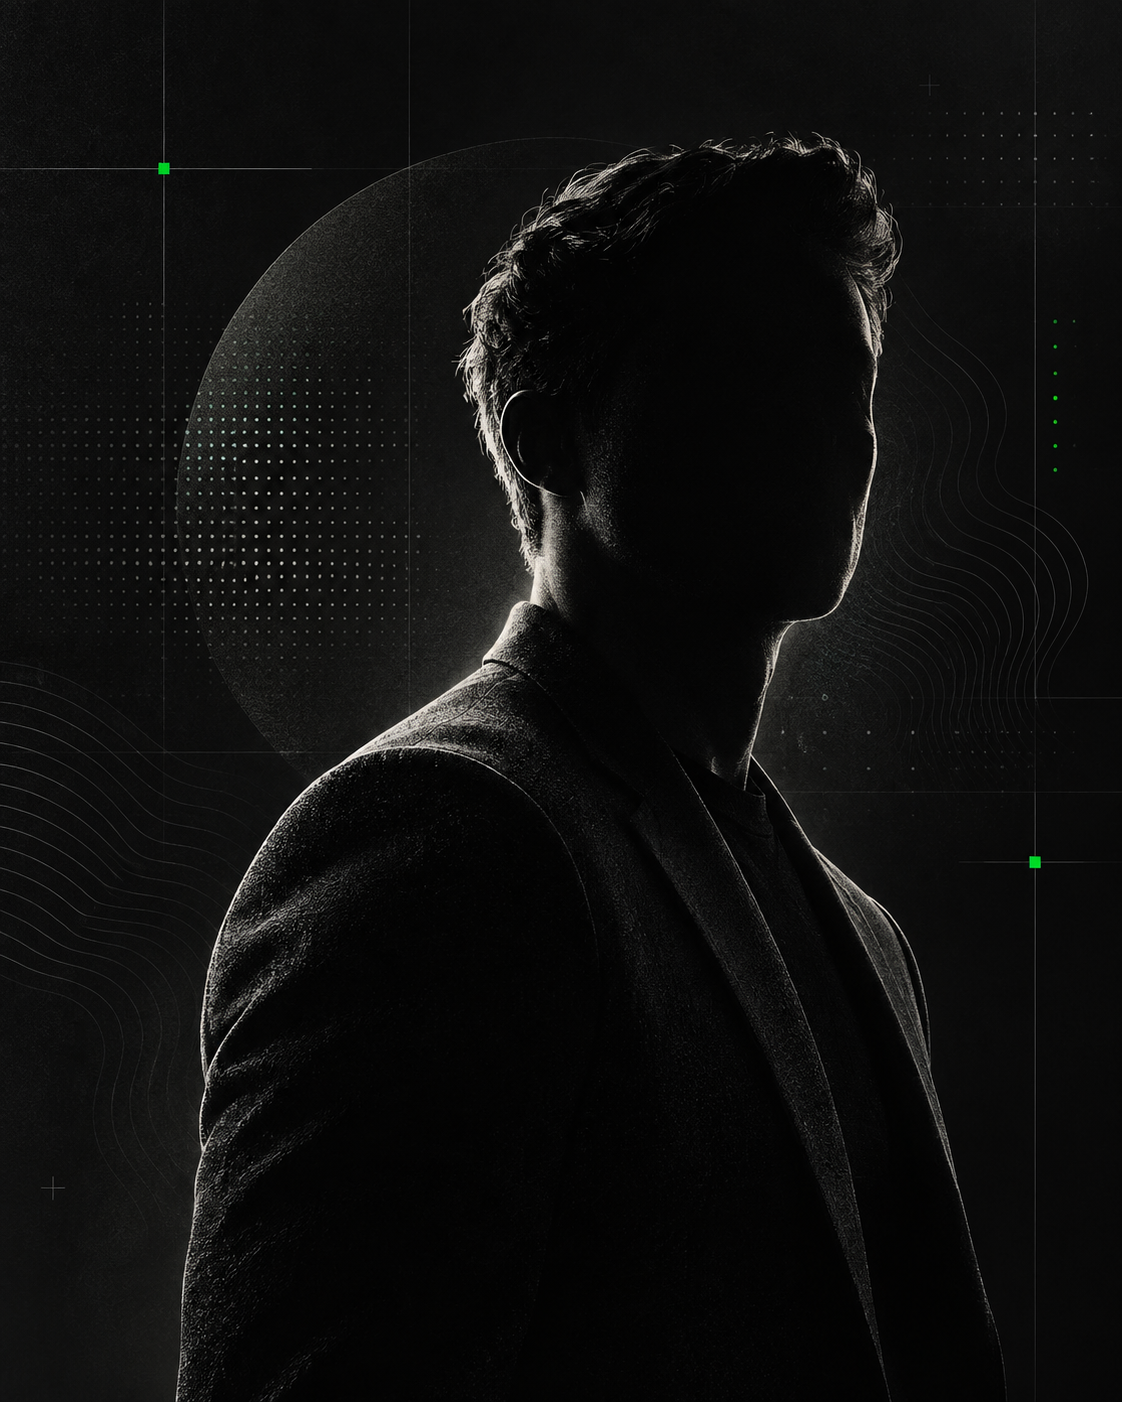
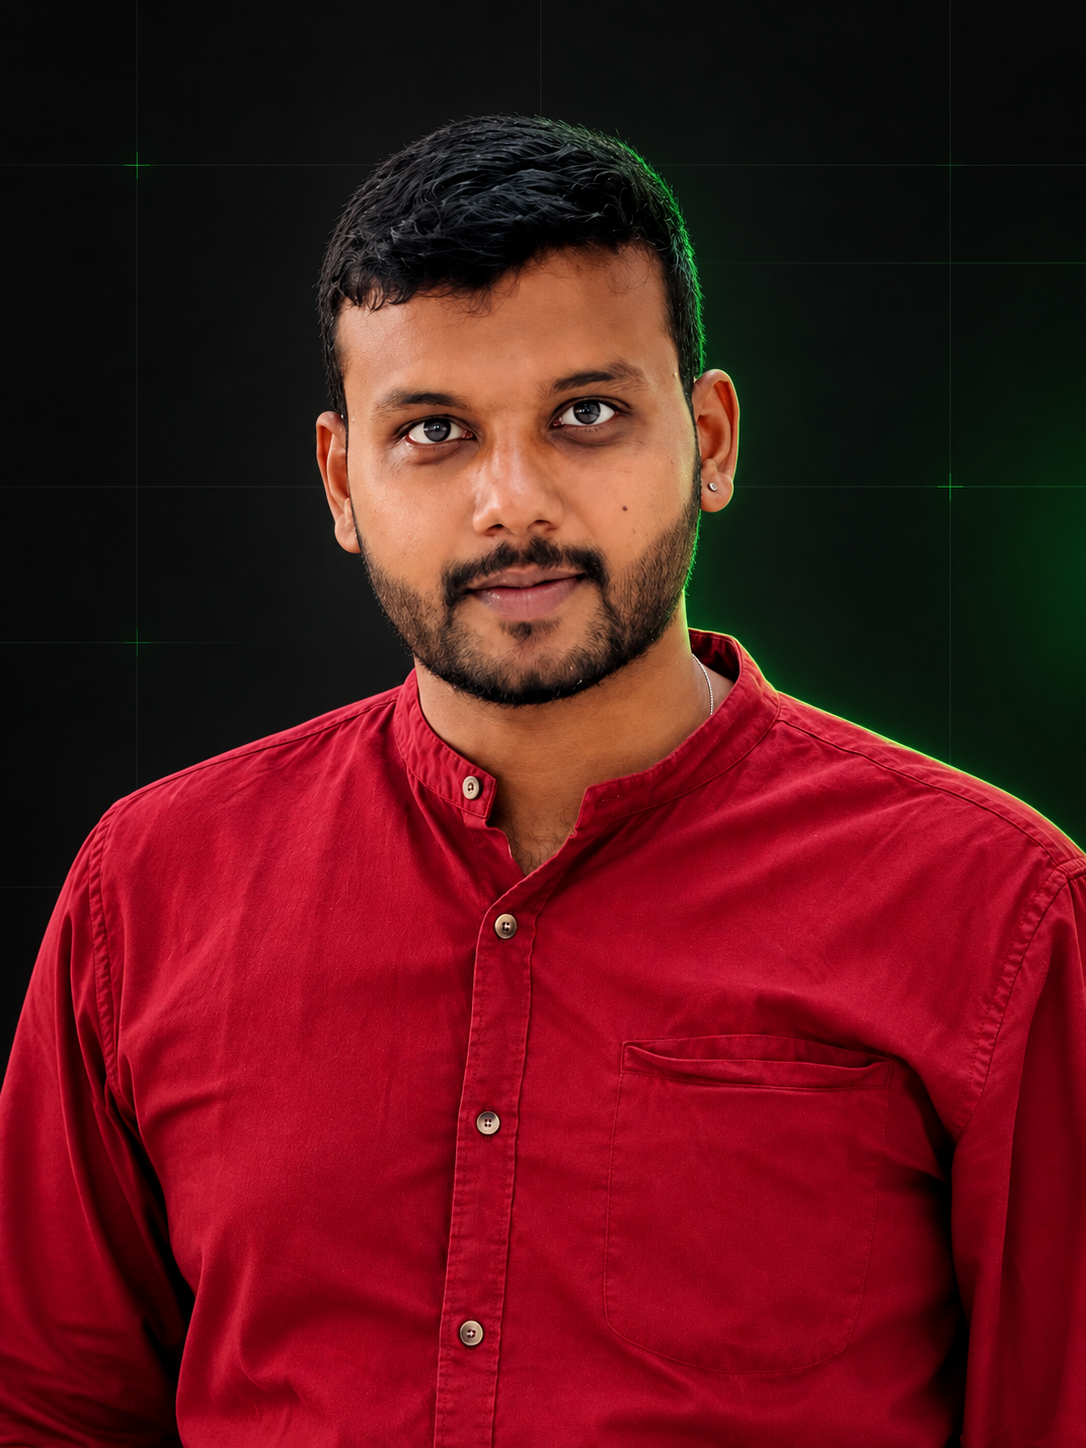
Add personal portrait and clarify India UK experience

diff --git a/src/app/globals.css b/src/app/globals.css
@@ -203,8 +203,8 @@ button, a { -webkit-tap-highlight-color: transparent; }
 .hero .section-eyebrow { position: relative; z-index: 3; margin-bottom: 1rem; }
 .hero-instrumentation { position: relative; z-index: 3; display: flex; flex-wrap: wrap; gap: 0.65rem clamp(1rem, 2.5vw, 2.5rem); margin-bottom: clamp(2rem, 4vw, 4rem); }
 .hero__composition { position: relative; display: grid; align-items: center; }
-.hero-interactive-title { position: relative; z-index: 2; grid-area: 1 / 1; width: min(70%, 72rem); margin: 0; color: var(--color-text-display); font-family: var(--font-display); letter-spacing: var(--tracking-display); line-height: 0.82; text-transform: uppercase; }
-.hero-interactive-title__pressure { display: block; height: clamp(4.2rem, 9.6vw, 11.5rem); }
+.hero-interactive-title { position: relative; z-index: 2; grid-area: 1 / 1; width: min(42%, 50rem); margin: 0; color: var(--color-text-display); font-family: var(--font-display); letter-spacing: var(--tracking-display); line-height: 0.82; text-transform: uppercase; }
+.hero-interactive-title__pressure { display: block; height: clamp(4.2rem, 6vw, 7.25rem); }
 .hero-interactive-title__pressure .text-pressure-title { letter-spacing: -0.065em; }
 .text-pressure-flex { display: flex; justify-content: space-between; }
 .text-pressure-stroke span { position: relative; }
@@ -381,10 +381,12 @@ button, a { -webkit-tap-highlight-color: transparent; }
 .resume-actions { display: flex; flex-wrap: wrap; gap: 0.75rem; margin-top: 2rem; }
 
 .clients-section h2 { margin-block: clamp(4rem, 8vw, 8rem); }
+.clients-section__context { max-width: 46rem; margin: calc(-1 * clamp(2rem, 4vw, 4rem)) 0 clamp(3rem, 6vw, 6rem) auto; color: var(--color-text-secondary); line-height: 1.7; }
 .clients-grid { display: grid; grid-template-columns: repeat(3, minmax(0, 1fr)); border-top: 1px solid var(--color-border-subtle); border-left: 1px solid var(--color-border-subtle); }
 .clients-grid article { min-height: 15rem; padding: clamp(1.5rem, 3vw, 3rem); border-right: 1px solid var(--color-border-subtle); border-bottom: 1px solid var(--color-border-subtle); }
 .clients-grid h3 { margin: 4rem 0 1rem; color: var(--color-text-primary); font: 600 clamp(1.3rem, 2.5vw, 2.8rem)/1 var(--font-display); letter-spacing: -0.04em; text-transform: uppercase; }
 .clients-grid small { color: var(--color-accent); }
+.clients-grid b { display: block; margin-top: 1.5rem; color: var(--color-text-muted); font: 500 0.5rem/1.5 var(--font-meta); letter-spacing: 0.09em; text-transform: uppercase; }
 .highlights-strip { border-top: 1px solid var(--color-border-subtle); background: var(--color-surface-1); }
 .highlights-strip__grid { display: grid; grid-template-columns: repeat(4, minmax(0, 1fr)); }
 .highlights-strip__grid > div { min-height: 14rem; padding: 2rem; border-left: 1px solid var(--color-border-subtle); }

diff --git a/src/data/experience.ts b/src/data/experience.ts
@@ -1,7 +1,7 @@
 import type { TimelineEntry } from "@/types/portfolio";
 
 export const experience: TimelineEntry[] = [
-  { period: "Jan 2023—Present", category: "Entrepreneur", title: "Digital Products & Business Platforms", organization: "Independent ventures", description: "Building CRM systems and technology-driven platforms across education, finance, retail, billing, and commerce—with a focus on practical business use cases." },
-  { period: "Feb 2018—Feb 2022", category: "Technology", title: "Network Engineer / Cyber Security Analyst", organization: "United Kingdom", description: "Supported network infrastructure, security operations, technical troubleshooting, system reliability, and client environments across multiple organizations." },
+  { period: "Jan 2023—Present", category: "Entrepreneur", title: "Digital Products & Business Platforms", organization: "India", description: "Building India-based CRM systems and technology-driven platforms across education, finance, retail, billing, and commerce—with a focus on practical business use cases." },
+  { period: "Feb 2018—Feb 2022", category: "Technology", title: "Network Engineer & Security Analyst", organization: "United Kingdom", description: "Worked as a Network Engineer and Security Analyst across the listed UK client environments, supporting network infrastructure, security operations, technical troubleshooting, monitoring, and system reliability." },
   { period: "2014—2018", category: "Business Operations", title: "Transport & Heavy-Vehicle Operations", organization: "Family transport business", description: "Hands-on operational coordination across logistics, lorries, JCBs, maintenance awareness, and practical day-to-day problem solving." },
 ];

diff --git a/src/app/page.tsx b/src/app/page.tsx
@@ -33,7 +33,7 @@ export default function Home() {
           <PageContainer className="hero__inner">
             <SectionEyebrow><DecryptedLabel text="PORTFOLIO / 2026" /></SectionEyebrow>
             <div className="hero-instrumentation" aria-label="Portfolio metadata">
-              <MetadataLabel label="Identity" value="Dindi Narendra Kumar Madala" />
+              <MetadataLabel label="Base" value="India" />
               <MetadataLabel label="Discipline" value="Systems + Technology" />
               <MetadataLabel label="Status" value="Building" accent />
             </div>
@@ -58,7 +58,7 @@ export default function Home() {
             <div className="about-entry__grid">
               <DisplayHeading id="about-title">Real problems.<br /><span>Working systems.</span></DisplayHeading>
               <div className="about-entry__copy">
-                <p>I&apos;m Dindi Narendra Kumar Madala—an entrepreneur, technologist, system builder, and problem solver. My path from transport operations to networks, cyber security, and digital products shaped a practical way of thinking: understand the real workflow first, then build technology around it.</p>
+                <p>I&apos;m Dindi Narendra Kumar Madala—an India-based entrepreneur, technologist, system builder, and problem solver. My path from transport operations in India to network engineering and security analysis across UK client environments shaped a practical way of thinking: understand the real workflow first, then build technology around it.</p>
                 <p className="about-entry__note">Operations taught responsibility. Technology added leverage. Entrepreneurship connected both to outcomes.</p>
               </div>
             </div>

diff --git a/src/content/portfolio.ts b/src/content/portfolio.ts
@@ -27,7 +27,7 @@ export const portfolioContent = {
     { period: "2016—2019", category: "Operations", title: "Learning systems in motion", organization: "Transport operations", description: "Built an early understanding of logistics, responsibility, coordination, and how real-world systems behave under pressure.", metadata: ["Phase / 01", "Foundation"] },
     { period: "2019—2021", category: "Networks", title: "From operations to infrastructure", organization: "Networking & technical support", description: "Moved closer to technology through network fundamentals, troubleshooting, infrastructure, and service continuity.", metadata: ["Phase / 02", "Technical depth"] },
     { period: "2021—2023", category: "Cyber Security", title: "Thinking in risks and controls", organization: "Security learning & practice", description: "Developed a security-first mindset: observe systems, understand attack surfaces, reduce risk, and document clearly.", metadata: ["Phase / 03", "Security mindset"] },
-    { period: "2023—Now", category: "Entrepreneurship", title: "Building digital products", organization: "Independent ventures", description: "Combining operational experience, technology, and business thinking to create practical products for real problems.", metadata: ["Phase / 04", "Current"] },
+    { period: "2023—Now", category: "Entrepreneurship", title: "Building digital products", organization: "India", description: "Building India-based ventures by combining operational experience, technology, and business thinking to create practical products for real problems.", metadata: ["Phase / 04", "Current"] },
   ],
   experience,
   education,

diff --git a/src/components/clients-highlights.tsx b/src/components/clients-highlights.tsx
@@ -8,8 +8,9 @@ export function ClientsHighlights() {
   return <>
     <section className="clients-section" aria-labelledby="clients-title"><PageContainer>
       <SectionEyebrow index="10"><DecryptedLabel text="SELECTED / CLIENT ENVIRONMENTS" /></SectionEyebrow>
-      <h2 id="clients-title">Client<br /><span>environments.</span></h2>
-      <div className="clients-grid">{clients.map((client, index) => <article key={client.name}><span>CLIENT / {String(index + 1).padStart(2, "0")}</span><h3>{client.name}</h3><small>{client.category}</small></article>)}</div>
+      <h2 id="clients-title">UK client<br /><span>environments.</span></h2>
+      <p className="clients-section__context">Worked across these United Kingdom client environments as a Network Engineer and Security Analyst.</p>
+      <div className="clients-grid">{clients.map((client, index) => <article key={client.name}><span>CLIENT / {String(index + 1).padStart(2, "0")}</span><h3>{client.name}</h3><small>{client.category} / {client.location}</small><b>Network Engineer · Security Analyst</b></article>)}</div>
     </PageContainer></section>
     <section className="highlights-strip" aria-label="Professional highlights"><PageContainer className="highlights-strip__grid">{highlights.map(item => <div key={item.label}><strong>{item.value}</strong><span>{item.label}</span></div>)}</PageContainer></section>
   </>;

diff --git a/src/data/clients.ts b/src/data/clients.ts
@@ -1,8 +1,8 @@
 export const clients = [
-  { name: "Silver Chip", category: "Technology" },
-  { name: "MFG / Motor Fuel Group", category: "Retail" },
-  { name: "BP / British Petroleum", category: "Energy" },
-  { name: "Londis", category: "Retail" },
-  { name: "Monzo Bank", category: "Banking" },
-  { name: "Salford Shopping Centre", category: "Commercial" },
+  { name: "Silver Chip", category: "Technology", location: "United Kingdom" },
+  { name: "MFG / Motor Fuel Group", category: "Retail", location: "United Kingdom" },
+  { name: "BP / British Petroleum", category: "Energy", location: "United Kingdom" },
+  { name: "Londis", category: "Retail", location: "United Kingdom" },
+  { name: "Monzo Bank", category: "Banking", location: "United Kingdom" },
+  { name: "Salford Shopping Centre", category: "Commercial", location: "United Kingdom" },
 ];

diff --git a/src/components/hero/hero-visual.tsx b/src/components/hero/hero-visual.tsx
@@ -52,14 +52,14 @@ export function HeroVisual() {
             dotSize={1}
             shape="circle"
             contrast={1.15}
-            trigger={interactive ? "hover" : "off"}
-            idleReveal={0.72}
+            trigger="off"
+            idleReveal={1}
             borderRadius="0"
             style={{}}
           />
-          <span className="hero-visual__asset-label">[ IDENTITY / SYSTEMS ] <small>DNKM</small></span>
+          <span className="hero-visual__asset-label">[ PORTRAIT / DNKM ] <small>India</small></span>
         </div>
-        <p className="hero-visual__meta"><span>Profile / DNKM</span><span>Builder / Entrepreneur</span></p>
+        <p className="hero-visual__meta"><span>Dindi Narendra Kumar</span><span>Entrepreneur / India</span></p>
       </div>
     </div>
   );
